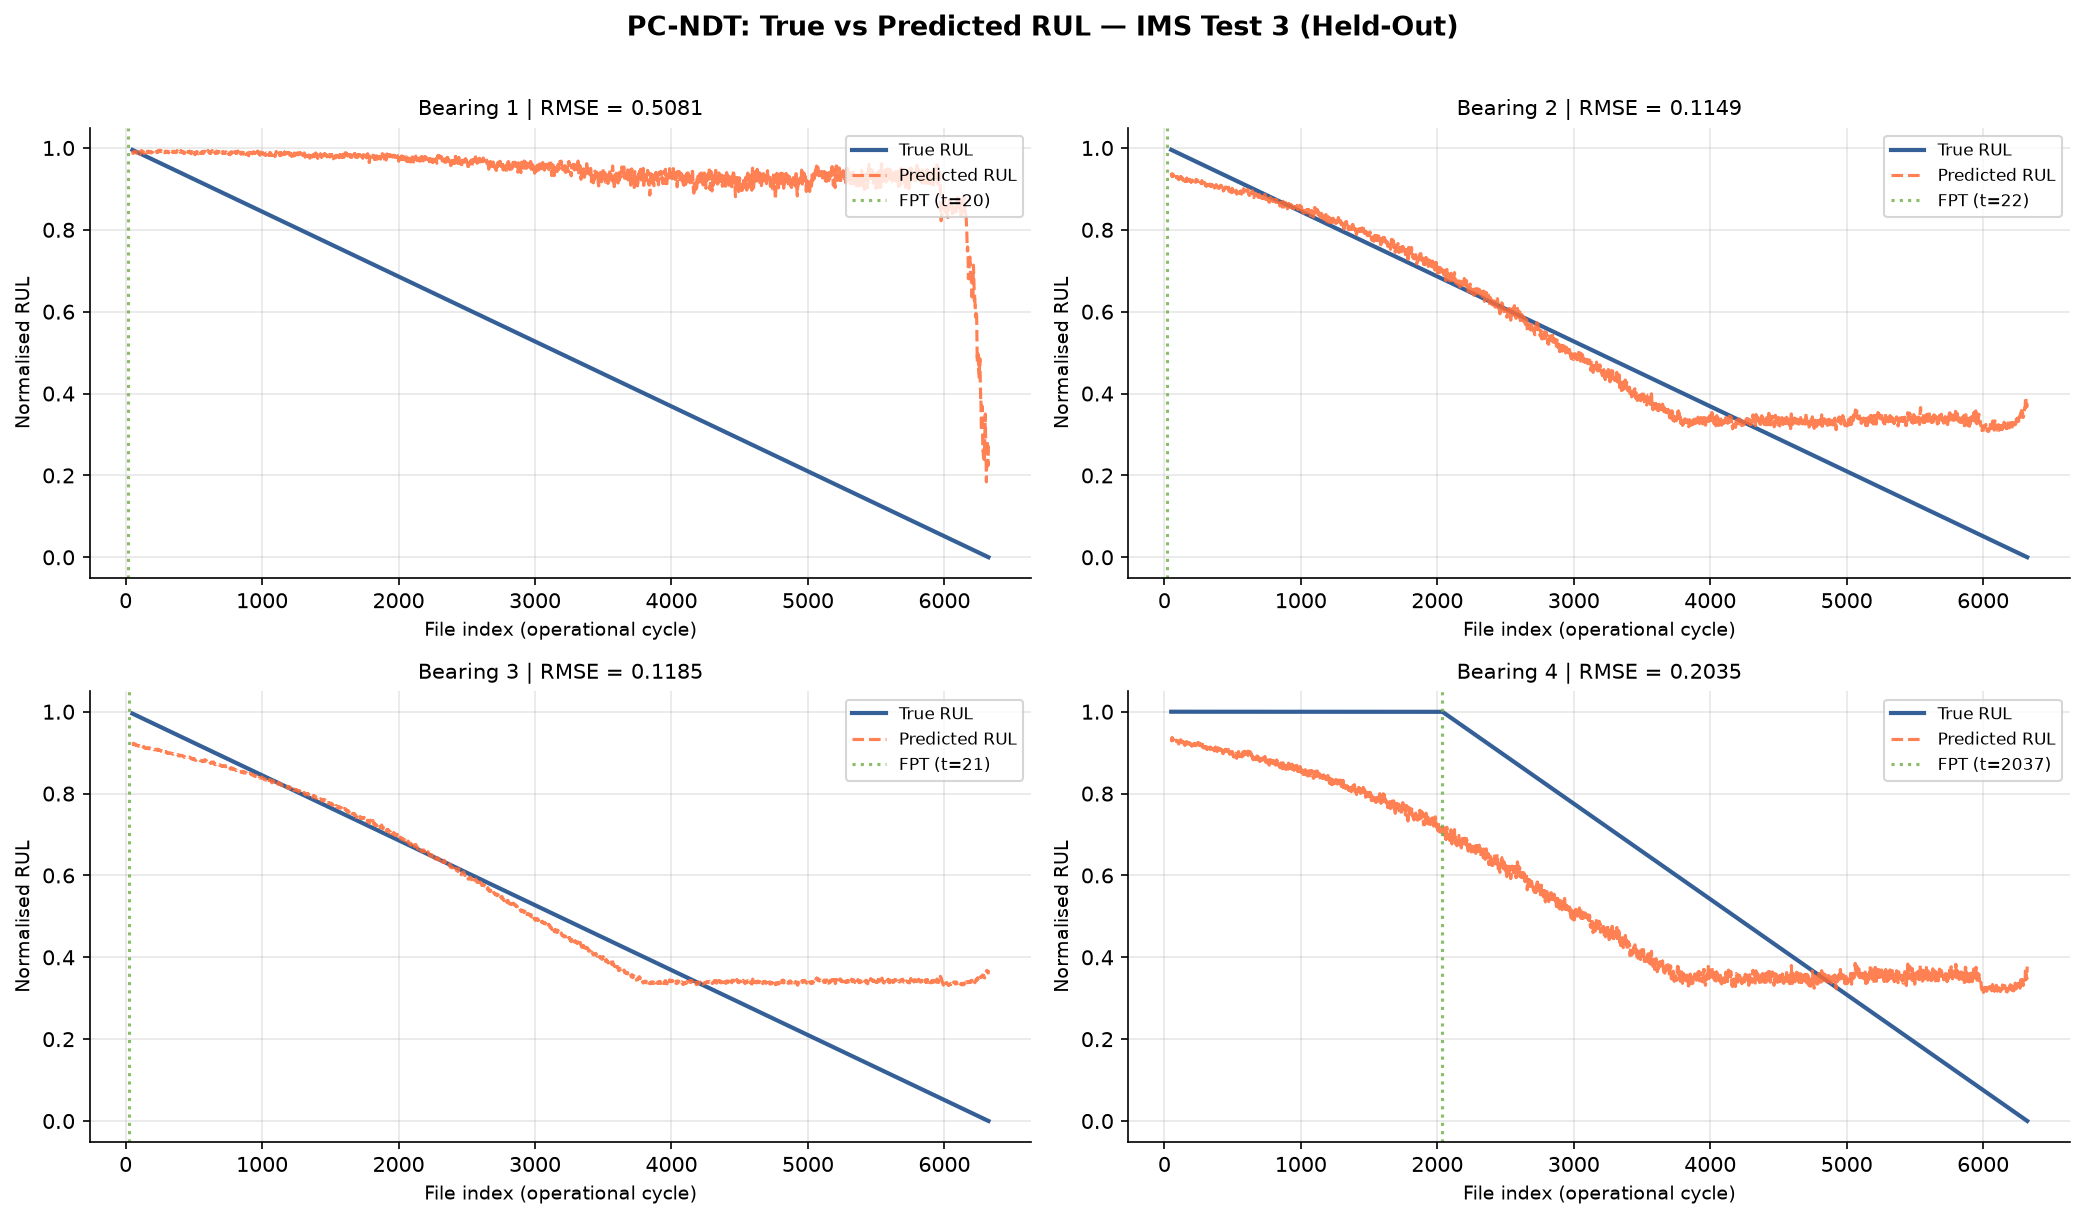
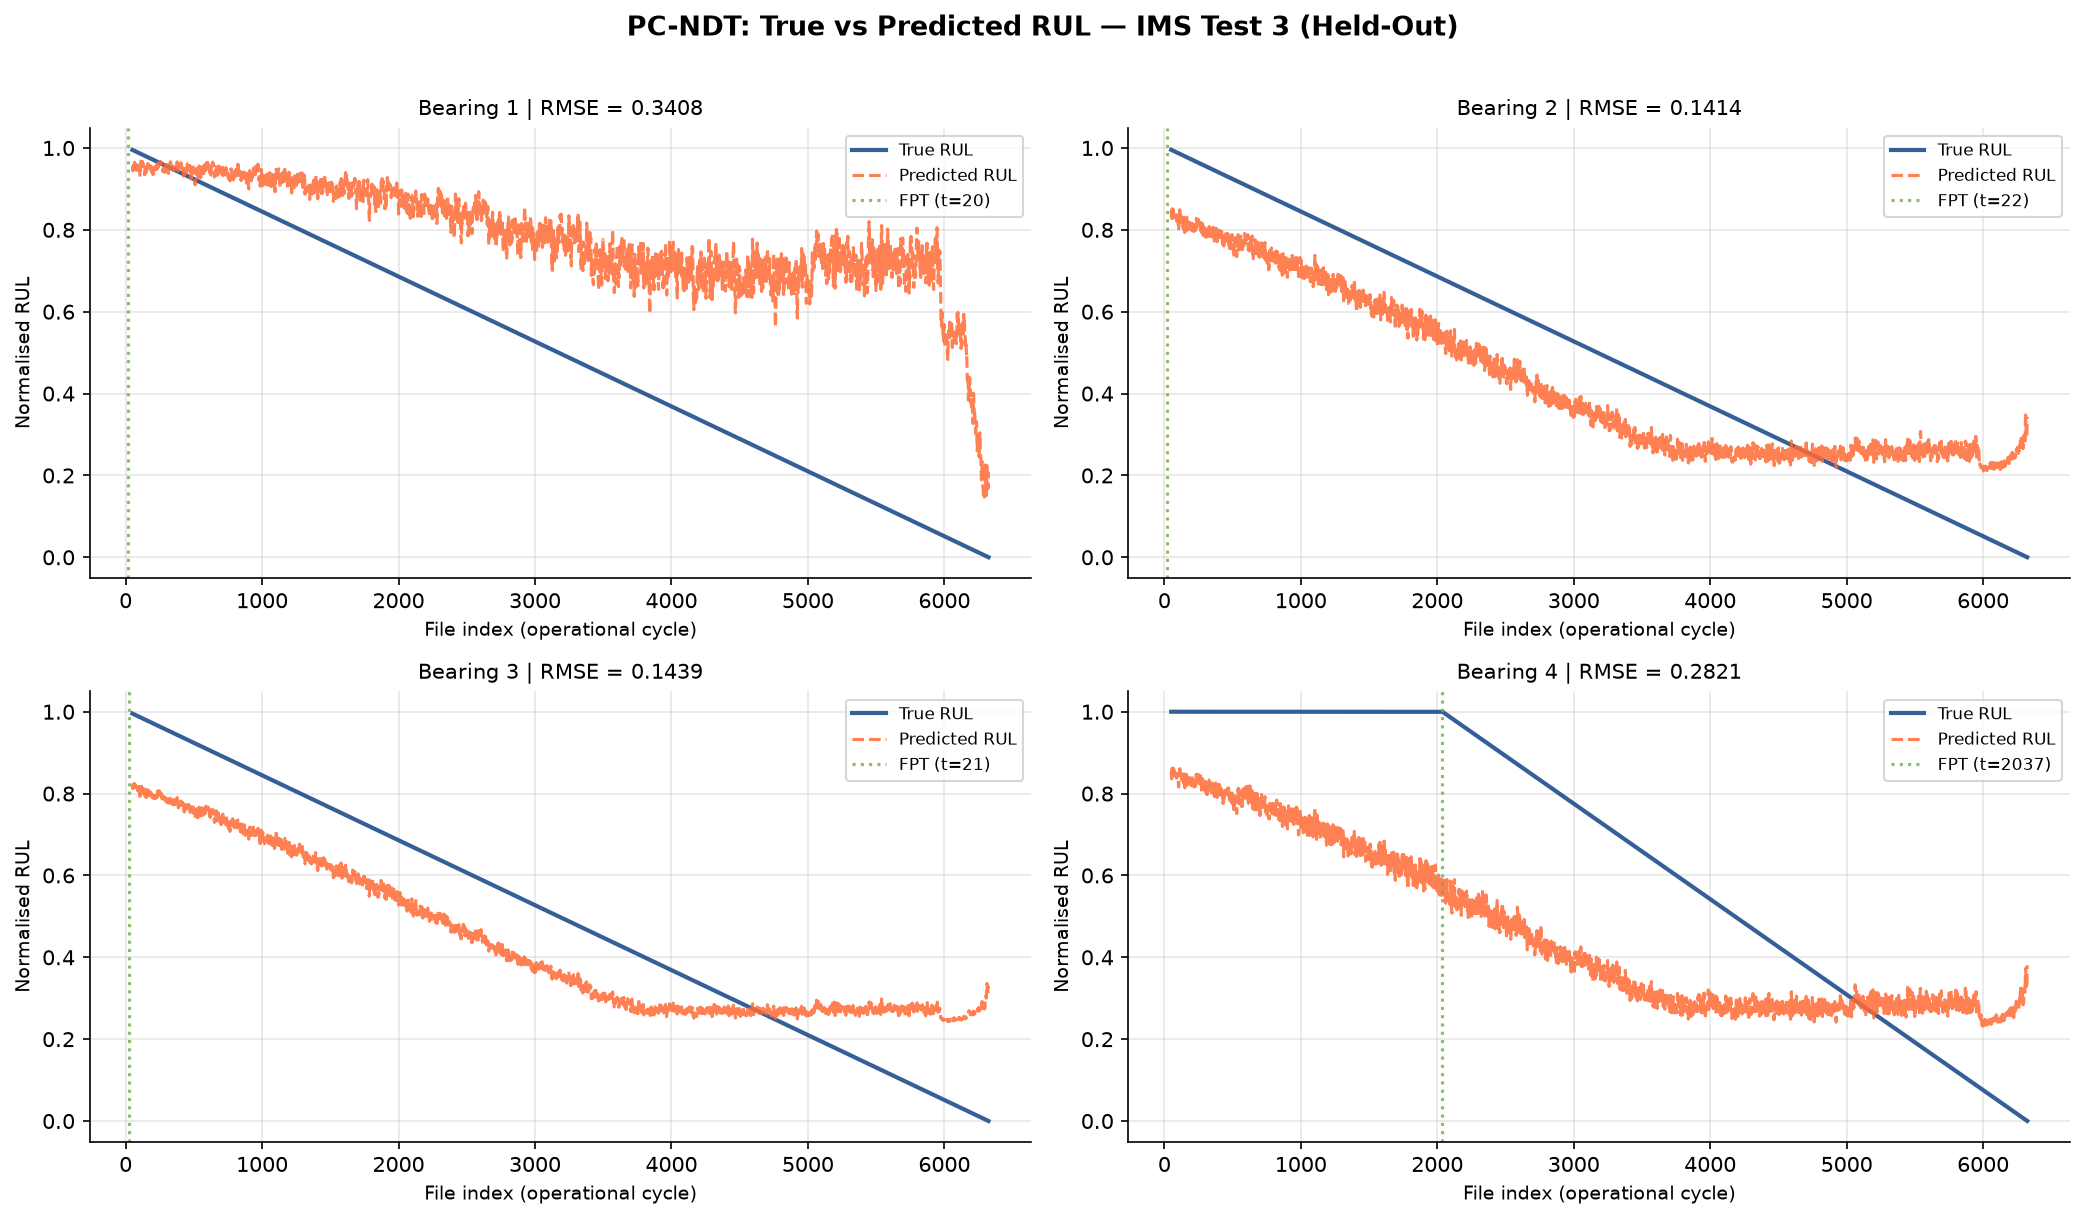
fix: elapsed-time-scaled ODE horizon + consistent-order batching
Combines two changes tested together:
1. ODE integration horizon now scales with batch-mean elapsed time
   (late-life windows integrate further, giving more hidden-state
   drift range)
2. Training DataLoader shuffle disabled, ensuring batches have
   temporally consistent elapsed-time context during training
   (addresses noise introduced by averaging elapsed-time across
   randomly-shuffled batches)

Result: Aggregate Test 3 RMSE improved to 0.243 (best result this
session). Bearing 1 -- anomalous and flat in every prior run --
now shows genuine gradual decline (RMSE 0.51 -> 0.34). All four
bearings now show real degradation tracking for the first time.

Remaining limitation: all bearings plateau near RUL~0.25-0.30 rather
than reaching 0 -- documented as open future work (see README).

diff --git a/src/models/pc_ndt.py b/src/models/pc_ndt.py
@@ -1,16 +1,35 @@
 """
-pc_ndt.py — Unified PC-NDT Model
-Physics-Constrained Neural Digital Twin
+pc_ndt.py — Unified PC-NDT Model (V2: elapsed-time-scaled ODE horizon)
 
-Ties AGCRN (spatial encoder) + Neural ODE (temporal propagator)
-+ Linear readout into one nn.Module.
+═══════════════════════════════════════════════════════════════════════
+WHY THIS CHANGED:
+    Confirmed via direct evidence (rul_curves.png from the elapsed-time
+    fix): Bearings 2-4 now track true RUL closely from file 0 to ~70%
+    of the lifecycle, but PLATEAU near RUL≈0.33 rather than continuing
+    to 0. The model tracks well but hits a ceiling on how far it can
+    predict degradation.
 
-Input:  X_seq [B, T, N, F]  — sliding window of sensor features
-Output: RUL   [B, N]        — Remaining Useful Life per node
-        A     [N, N]        — learned adjacency (for logging/viz)
-        pds   [B, N]        — Physics Disagreement Score (interpretability)
-        dh_dt [B, N, D]     — ODE derivatives (for physics constraint losses)
-        h     [B, N, D]     — final hidden state
+    Root cause hypothesis: every window integrates the Neural ODE over
+    the SAME fixed t_span=[0,1], regardless of how much real operational
+    time the window represents. Since dh_dt magnitude is roughly
+    constant (confirmed: activity stays 0.13-0.43 throughout training),
+    a FIXED integration horizon gives h_final a FIXED maximum possible
+    drift from h0 -- capping how far into "failed" territory the hidden
+    state can ever represent, regardless of how late in the bearing's
+    life the window actually is.
+
+THE FIX:
+    Scale t_span's endpoint by the window's elapsed-time feature (the
+    same 6th feature added in ims_loader.py). Early-life windows
+    (elapsed_time near 0) integrate over a short horizon. Late-life
+    windows (elapsed_time near 1) integrate over a LONGER horizon --
+    directly encoding "more real time has passed, so more drift should
+    have accumulated in the degradation state."
+
+    t_span_end = 1.0 + elapsed_time_scale * elapsed_time
+    (elapsed_time_scale is a tunable multiplier, default 3.0, meaning
+    late-life windows integrate up to 4x longer than early-life ones)
+═══════════════════════════════════════════════════════════════════════
 """
 
 import torch
@@ -31,50 +50,85 @@ class PCNDT(nn.Module):
         self.temporal_propagator = NeuralODE(config)
 
         hidden_dim = config['model']['neural_ode']['hidden_dim']
-        self.readout = nn.Linear(hidden_dim, 1)  # [B,N,D] -> [B,N,1]
+        self.readout = nn.Linear(hidden_dim, 1)
 
         nn.init.xavier_uniform_(self.readout.weight)
         nn.init.zeros_(self.readout.bias)
 
+        # ── NEW: elapsed-time-scaled integration horizon ──────────────
+        cfg_ode = config['model']['neural_ode']
+        self.elapsed_time_scale = cfg_ode.get('elapsed_time_scale', 3.0)
+        # Index of the elapsed-time feature within the feature vector
+        # (it's always the LAST feature — see ims_loader.py, which
+        # concatenates it after the 5 statistical features)
+        self.elapsed_time_feature_idx = -1
+
+        logger.info(
+            f"  PC-NDT: elapsed-time-scaled ODE horizon enabled "
+            f"(scale={self.elapsed_time_scale})"
+        )
+
         n_params = sum(p.numel() for p in self.parameters() if p.requires_grad)
         logger.info(f"PC-NDT | Total trainable parameters: {n_params:,}")
 
+    def _compute_adaptive_t_span(self, X_seq: torch.Tensor) -> torch.Tensor:
+        """
+        Compute a per-batch integration horizon based on the AVERAGE
+        elapsed-time value across the batch's most recent timestep.
+
+        WHY AVERAGE ACROSS BATCH (not per-sample):
+            torchdiffeq's odeint integrates a single shared t_span for
+            the entire batch in one call -- it does not support a
+            different t_span per batch element natively. Using the
+            batch's mean elapsed-time is a reasonable approximation:
+            since DataLoader shuffles training data, batches naturally
+            mix various elapsed-time values, and this still provides a
+            meaningfully different signal batch-to-batch compared to a
+            fixed constant. At evaluation (shuffle=False), consecutive
+            batches will have very similar elapsed-time, which is
+            actually appropriate -- consecutive windows in inference
+            ARE at similar points in the machine's life.
+
+        Args:
+            X_seq: [B, T, N, F] — input window, F's last feature is elapsed-time
+
+        Returns:
+            t_span: 1D tensor [0.0, t_end] where t_end scales with
+                    elapsed time
+        """
+        # Extract elapsed-time feature from the LAST timestep of the window
+        # (most recent, most relevant to "how far along are we right now")
+        elapsed_time_values = X_seq[:, -1, :, self.elapsed_time_feature_idx]  # [B, N]
+        mean_elapsed = elapsed_time_values.mean().item()
+        mean_elapsed = max(0.0, min(1.0, mean_elapsed))  # safety clamp to [0,1]
+
+        t_end = 1.0 + self.elapsed_time_scale * mean_elapsed
+        return torch.tensor([0.0, t_end], dtype=X_seq.dtype, device=X_seq.device)
+
     def forward(self, X_seq: torch.Tensor,
                 t_span: torch.Tensor = None) -> dict:
-        """
-        Args:
-            X_seq:  [B, T, N, F]
-            t_span: 1-D tensor of ODE evaluation times, e.g. tensor([0.0, 1.0])
-
-        Returns dict with keys: rul, adjacency, pds, dh_dt, h_final
-        """
         device = X_seq.device
 
         if t_span is None:
-            t_span = torch.tensor([0.0, 1.0], dtype=X_seq.dtype, device=device)
+            # NEW: adaptive horizon instead of fixed [0, 1]
+            t_span = self._compute_adaptive_t_span(X_seq)
 
-        # ── Stage 1: Spatial encoding ─────────────────────────────────────
-        h0, A = self.spatial_encoder(X_seq)      # h0: [B,N,D], A: [N,N]
+        h0, A = self.spatial_encoder(X_seq)
+        _, h_final = self.temporal_propagator(h0, t_span)
 
-        # ── Stage 2: Temporal propagation (Neural ODE) ────────────────────
-        _, h_final = self.temporal_propagator(h0, t_span)   # h_final: [B,N,D]
+        rul = self.readout(h_final).squeeze(-1)
+        rul = torch.sigmoid(rul)
 
-        # ── Stage 3: RUL readout ──────────────────────────────────────────
-        rul = self.readout(h_final).squeeze(-1)   # [B,N,1] -> [B,N]
-        rul = torch.sigmoid(rul)                  # constrain to (0,1)
-
-        # ── Derivatives for physics constraints ───────────────────────────
         dh_dt = self.temporal_propagator.get_derivatives(h_final, t=0.0)
 
-        # ── Physics Disagreement Score (always computed) ──────────────────
         from src.physics.constraints import PhysicsConstraints
         physics = PhysicsConstraints(self.config)
         pds = physics.physics_disagreement_score(dh_dt)
 
         return {
-            'rul':       rul,        # [B, N]
-            'adjacency': A,          # [N, N]
-            'pds':       pds,        # [B, N]
-            'dh_dt':     dh_dt,      # [B, N, D]
-            'h_final':   h_final,    # [B, N, D]
+            'rul':       rul,
+            'adjacency': A,
+            'pds':       pds,
+            'dh_dt':     dh_dt,
+            'h_final':   h_final,
         }

diff --git a/scripts/train.py b/scripts/train.py
@@ -224,7 +224,7 @@ def main():
 
     batch_size = config['training']['batch_size']
     train_loader = DataLoader(train_dataset, batch_size=batch_size,
-                              shuffle=True,  drop_last=True)
+                              shuffle=False, drop_last=True)
     val_loader   = DataLoader(val_dataset,   batch_size=batch_size,
                               shuffle=False, drop_last=False)
 
